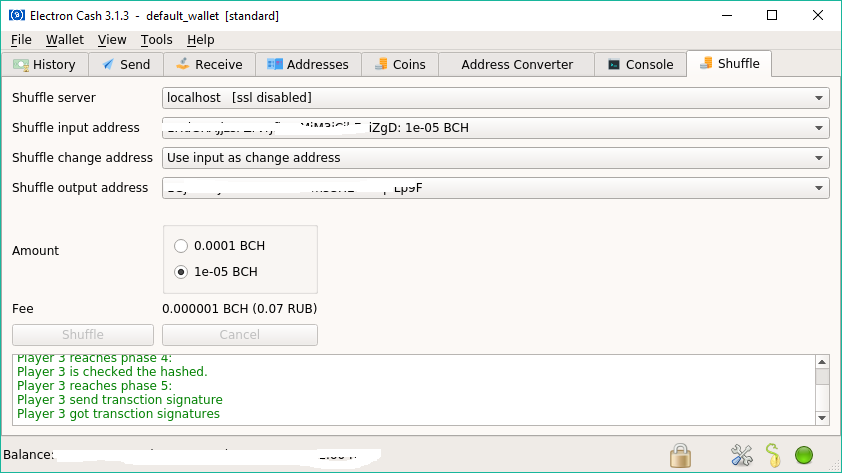
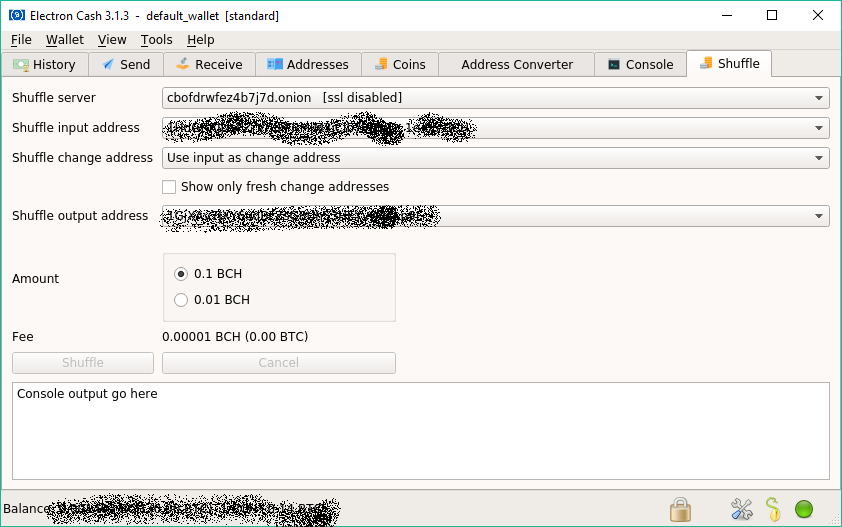
add chages checkbox

diff --git a/shuffle/coin_shuffle.py b/shuffle/coin_shuffle.py
@@ -41,12 +41,10 @@ class Round(object):
         else:
             raise TypeError('Players should be stored in dict object')
         # My verification public key, which is also my identity.
-        # self.__vk = sk.get_public_key(True) # True here means that compression is on
         self.__vk = pubkey
         # decryption key
         if self.__N == len(set(players.values())):
             if self.__vk in players.values():
-                # self.__me = { v : k for k, v in players.iteritems()}[self.__vk]
                 self.__me = { players[player] : player for player in players}[self.__vk]
 
             else:
@@ -78,7 +76,7 @@ class Round(object):
         try:
             val = self.__inchan.recv()
             if val is None:
-                return
+                return None
             else:
                 self.__messages.packets.ParseFromString(val)
         except Exception:
@@ -90,8 +88,7 @@ class Round(object):
             if not self.__coin.verify_signature(sig, msg, player):
                 self.__messages.clear_packets()
                 self.__messages.blame_invalid_signature(self.__players[player])
-                self.__messages.form_last_packet(self.__sk, self.__session, self.__me, self.__vk, None,self.__phase)
-                self.__outchan.send(self.__messages.packets.SerializeToString())
+                self.send_message()
                 self.__logchan.send('Blame: player ' + player + ' message with wrong signature!')
                 raise BlameException('Player ' + player + ' message with wrong signature!')
         # blames = self.__messages.get_blame()
@@ -103,6 +100,11 @@ class Round(object):
         #     self.__logchan.send("Blame on you!")
         if self.__debug:
             self.__logchan.send("Player " + str(self.__me)+"\n"+str(self.__inbox))
+        return True
+
+    def send_message(self, destination = None):
+        self.__messages.form_all_packets(self.__sk, self.__session, self.__me, self.__vk, destination, self.__phase)
+        self.__outchan.send(self.__messages.packets.SerializeToString())
 
     def blame_insufficient_funds(self):
         offenders = list()
@@ -117,8 +119,7 @@ class Round(object):
             self.__phase = "Blame"
             for offender in offenders:
                 self.__messages.blame_insufficient_funds(offender)
-                self.__messages.form_last_packet(self.__sk, self.__session, self.__me, self.__vk, None,self.__phase)
-                self.__outchan.send(self.__messages.packets.SerializeToString())
+                self.send_message()
                 #log the Exception
                 self.__logchan.send('Blame: insufficient funds of player ' + str(list(self.__players.keys())[list(self.__players.values()).index(offender)]))
             raise BlameException('Insufficient funds')
@@ -129,8 +130,7 @@ class Round(object):
         # Broadcast the public key and store it in the set with everyone else's.
         self.__messages.clear_packets()
         self.__messages.add_encryption_key(self.__crypto.export_public_key(), self.__change)
-        self.__messages.form_last_packet(self.__sk, self.__session, self.__me, self.__vk, None , self.__phase)
-        self.__outchan.send(self.__messages.packets.SerializeToString())
+        self.send_message()
 
     # In phase 1, everybody announces their new encryption keys to one another. They also
     # optionally send change addresses to one another. This function reads that information
@@ -146,10 +146,11 @@ class Round(object):
         return encrypted
 
     def process_inbox(self):
+        phase = self.__messages.phases[self.__phase]
         # Announcement
         if self.__phase is 'Announcement':
-            if len(self.__inbox[self.__messages.phases[self.__phase]]) == self.__N:
-                messages = self.__inbox[self.__messages.phases[self.__phase]]
+            if len(self.__inbox[phase]) == self.__N:
+                messages = self.__inbox[phase]
                 for message in messages:
                     self.__messages.packets.ParseFromString(messages[message])
                     from_key = self.__messages.get_from_key()
@@ -159,21 +160,15 @@ class Round(object):
                     self.__logchan.send('Player '+ str(self.__me) + ' recieved all keys for test.')
                     self.__phase = 'Shuffling'
                     self.__logchan.send("Player " + str( self.__me) + " reaches phase 2.")
-                    #
                     self.__messages.clear_packets()
-                    #
                     if self.__me == 1:
                         self.__messages.add_str(self.encrypt_new_address())
-                        # form packet and...
-                        self.__messages.form_all_packets(self.__sk, self.__session, self.__me, self.__vk, self.__players[self.__me + 1],self.__phase)
-                        # ... send it to the next player
-                        self.__outchan.send(self.__messages.packets.SerializeToString())
+                        self.send_message(destination = self.__players[self.__me + 1])
                         self.__logchan.send("Player " + str(self.__me) + " encrypt new address")
                         self.__phase = 'BroadcastOutput'
         # Shuffling
         elif self.__phase is 'Shuffling':
             if self.__me == self.__N:
-                phase = self.__messages.phases[self.__phase]
                 sender = self.__players[self.__N - 1]
                 if self.__inbox[phase].get(sender):
                     self.__messages.packets.ParseFromString(self.__inbox[phase][sender])
@@ -185,15 +180,11 @@ class Round(object):
                     self.__messages.shuffle_packets()
                     # form packet ...
                     self.__phase = 'BroadcastOutput'
-                    self.__messages.form_all_packets(self.__sk, self.__session, self.__me, self.__vk, None, self.__phase)
-                    # and send it to everyone
-                    self.__outchan.send(self.__messages.packets.SerializeToString())
+                    self.send_message()
                     self.__logchan.send("Player " + str(self.__me) + " encrypt new address")
             else:
-                phase = self.__messages.phases[self.__phase]
                 sender = self.__players[self.__me - 1]
                 if self.__inbox[phase].get(sender):
-                    # self.__messages.clear_packets()
                     self.__messages.packets.ParseFromString(self.__inbox[phase][sender])
                     for packet in self.__messages.packets.packet:
                         packet.packet.message.str = self.__crypto.decrypt(packet.packet.message.str)
@@ -201,15 +192,11 @@ class Round(object):
                     self.__messages.add_str(self.encrypt_new_address())
                     # shuffle the packets
                     self.__messages.shuffle_packets()
-                    # form packet and...
-                    self.__messages.form_all_packets(self.__sk, self.__session, self.__me, self.__vk, self.__players[self.__me + 1], self.__phase)
-                    # and send it to next player
-                    self.__outchan.send(self.__messages.packets.SerializeToString())
+                    self.send_message(destination = self.__players[self.__me + 1])
                     self.__logchan.send("Player " + str(self.__me) + " encrypt new address")
                     self.__phase = 'BroadcastOutput'
         # BroadcastOutput
         elif self.__phase is 'BroadcastOutput':
-            phase = self.__messages.phases[self.__phase]
             sender = self.__players[self.__N]
             if self.__inbox[phase].get(sender):
                 # extract addresses from packets
@@ -223,8 +210,7 @@ class Round(object):
                 else:
                     self.__messages.clear_packets()
                     self.__messages.blame_missing_output(self.__vk)
-                    self.__messages.form_last_packet(self.__sk, self.__session, self.__me, self.__vk, None,self.__phase)
-                    self.__outchan.send(self.__messages.packets.SerializeToString())
+                    self.send_message()
                     self.__logchan.send("Blame: player " + str(self.__me) + "  not found itsefs new address")
                     raise BlameException("Blame: player " + str(self.__me) + "  not found itsefs new address")
                 self.__phase = 'EquivocationCheck'
@@ -236,13 +222,9 @@ class Round(object):
                 self.__messages.clear_packets()
                 # add new hash
                 self.__messages.add_hash(computed_hash)
-                # sign a packets for broadcasting
-                self.__messages.form_last_packet(self.__sk, self.__session, self.__me, self.__vk, None, self.__phase)
-                # broadcast the message
-                self.__outchan.send(self.__messages.packets.SerializeToString())
+                self.send_message()
         elif self.__phase is 'EquivocationCheck':
             computed_hash =self.__crypto.hash( str(self.__new_addresses) + str([self.__encryption_keys[self.__players[i]] for i in range(1, self.__N + 1) ]))
-            phase  = self.__messages.phases[self.__phase]
             if len(self.__inbox[phase]) == self.__N:
                 messages = self.__inbox[phase]
                 for player in messages:
@@ -251,26 +233,20 @@ class Round(object):
                     if hash_value != computed_hash:
                         self.__messages.clear_packets()
                         self.__messages.blame_equivocation_failure(self.__players[player])
-                        self.__messages.form_last_packet(self.__sk, self.__session, self.__me, self.__vk, None,self.__phase)
-                        self.__outchan.send(self.__messages.packets.SerializeToString())
+                        self.send_message()
                         self.__logchan.send('Blame: wrong hash computed by player' + str(player))
                         raise BlameException('Wrong hash computed by player ' + str(player))
                 self.__logchan.send('Player ' + str(self.__me) + ' is checked the hashed.')
                 self.__phase = 'VerificationAndSubmission'
                 self.__logchan.send("Player "+ str(self.__me) + " reaches phase 5: ")
                 inputs = {self.__players[player]:self.__coin.address(self.__players[player])  for player in self.__players}
-                # self.__logchan.send(str(inputs))
-                # (amount, fee, inputs, outputs, changes):
                 self.transaction = self.__coin.make_unsigned_transaction(self.__amount, self.__fee, inputs, self.__new_addresses, self.__change_addresses)
                 signature = self.__coin.get_transaction_signature(self.transaction, self.__sk, self.__vk)
-                # signature = self.__sk.sign_message(transaction,True)
                 self.__messages.clear_packets()
                 self.__messages.add_signature(signature)
-                self.__messages.form_last_packet(self.__sk, self.__session, self.__me, self.__vk, None, self.__phase)
-                self.__outchan.send(self.__messages.packets.SerializeToString())
+                self.send_message()
                 self.__logchan.send("Player " + str(self.__me) + " send transction signature")
         elif self.__phase is 'VerificationAndSubmission':
-                phase = self.__messages.phases[self.__phase]
                 if len(self.__inbox[phase]) == self.__N:
                     self.signatures = {}
                     self.__logchan.send("Player " + str(self.__me) + " got transction signatures")
@@ -282,8 +258,7 @@ class Round(object):
                         if not check:
                             self.__messages.clear_packets()
                             self.__messages.blame_wrong_transaction_signature(self.__players[player])
-                            self.__messages.form_last_packet(self.__sk, self.__session, self.__me, self.__vk, None,self.__phase)
-                            self.__outchan.send(self.__messages.packets.SerializeToString())
+                            self.send_message()
                             self.__logchan.send('Blame: wrong transaction signature from player ' + str(player))
                             raise BlameException('Wrong tx signature from player ' + str(player))
 
@@ -314,5 +289,5 @@ class Round(object):
         self.__logchan.send("Player " + str( self.__me) + " is about to read announcements.")
 
         while not self.done:
-            self.inchan_to_inbox()
-            self.process_inbox()
+            if self.inchan_to_inbox():
+                self.process_inbox()

diff --git a/shuffle/qt.py b/shuffle/qt.py
@@ -152,6 +152,7 @@ class Plugin(BasePlugin):
             self.enable_coinshuffle_settings()
             self.coinshuffle_cancel_button.setEnabled(False)
             self.coinshuffle_inputs.update(self.window.wallet)
+            self.coinshuffle_outputs.update(self.window.wallet)
         else:
             header = message[:6]
             if header == 'Player':
@@ -165,8 +166,7 @@ class Plugin(BasePlugin):
             self.coinshuffle_text_output.setTextColor(QColor('black'))
 
     def start_coinshuffle_protocol(self):
-        print('protocol started')
-        # from electroncash_plugins.coinshuffle.client import protocolThread
+        # print('protocol started')
         from .client import protocolThread
         from electroncash.bitcoin import (regenerate_key, deserialize_privkey)
         from .shuffle import ConsoleLogger
@@ -246,22 +246,22 @@ class Plugin(BasePlugin):
     def create_shuffle_tab(self):
         self.coinshuffle_fee_constant = 1000
         # This is for debug
-        # self.coinshuffle_fee_constant = 100
+        # self.coinshuffle_fee_constant = 900
 
         from .shuffle import (InputAdressWidget, ChangeAdressWidget, OutputAdressWidget,
                             ConsoleOutput, AmountSelect, ServersList)
 
         self.coinshuffle_amounts = [1e7, 1e6]
         # Use this in test mode
-        # self.coinshuffle_amounts = [1e4, 1e3]
+        # self.coinshuffle_amounts = [1e4, 1e3, 3e3]
         self.shuffle_grid = grid = QGridLayout()
         grid.setSpacing(8)
         grid.setColumnStretch(3, 1)
 
         self.coinshuffle_servers = ServersList()
-        # self.coinshuffle_use_ssl = QCheckBox()
         self.coinshuffle_inputs = InputAdressWidget(decimal_point = self.window.get_decimal_point)
         self.coinshuffle_changes = ChangeAdressWidget()
+        self.coinshuffle_fresh_changes = QCheckBox(_('Show only fresh change addresses'))
         self.coinshuffle_outputs = OutputAdressWidget()
         self.coinshuffle_amount_radio = AmountSelect(self.coinshuffle_amounts, decimal_point = self.window.get_decimal_point)
         self.coinshuffle_fee = QLabel(_(self.window.format_amount_and_units(self.coinshuffle_fee_constant)))
@@ -269,6 +269,7 @@ class Plugin(BasePlugin):
 
         self.coinshuffle_inputs.currentIndexChanged.connect(self.check_sufficient_ammount)
         self.coinshuffle_amount_radio.button_group.buttonClicked.connect(self.check_sufficient_ammount)
+        self.coinshuffle_fresh_changes.stateChanged.connect(lambda: self.coinshuffle_changes.update(self.window.wallet, fresh_only = self.coinshuffle_fresh_changes.isChecked()))
 
         self.coinshuffle_start_button = EnterButton(_("Shuffle"),lambda :self.start_coinshuffle_protocol())
         self.coinshuffle_cancel_button = EnterButton(_("Cancel"),lambda :self.cancel_coinshuffle_protocol())
@@ -277,15 +278,15 @@ class Plugin(BasePlugin):
 
         grid.addWidget(QLabel(_('Shuffle server')), 1, 0)
         # grid.addWidget(QLabel(_('Use SSL')), 2, 0)
-        grid.addWidget(QLabel(_('Shuffle input address')), 3, 0)
-        grid.addWidget(QLabel(_('Shuffle change address')), 4, 0)
+        grid.addWidget(QLabel(_('Shuffle input address')), 2, 0)
+        grid.addWidget(QLabel(_('Shuffle change address')), 3, 0)
         grid.addWidget(QLabel(_('Shuffle output address')), 5, 0)
         grid.addWidget(QLabel(_('Amount')), 6, 0)
         grid.addWidget(QLabel(_('Fee')), 7, 0)
         grid.addWidget(self.coinshuffle_servers, 1, 1,1,-1)
-        # grid.addWidget(self.coinshuffle_use_ssl, 2, 1)
-        grid.addWidget(self.coinshuffle_inputs,3,1,1,-1)
-        grid.addWidget(self.coinshuffle_changes,4,1,1,-1)
+        grid.addWidget(self.coinshuffle_fresh_changes, 4, 1)
+        grid.addWidget(self.coinshuffle_inputs,2,1,1,-1)
+        grid.addWidget(self.coinshuffle_changes,3,1,1,-1)
         grid.addWidget(self.coinshuffle_outputs,5,1,1,-1)
         grid.addWidget(self.coinshuffle_amount_radio,6,1)
         grid.addWidget(self.coinshuffle_fee ,7, 1)

diff --git a/shuffle/shuffle.py b/shuffle/shuffle.py
@@ -103,7 +103,7 @@ class InputAdressWidget(QComboBox):
         return self.inputsArray[self.currentIndex()]['address']
 
     def get_input_address_as_string(self, fmt = Address.FMT_LEGACY):
-        return self.inputsArray[self.currentIndex()]['address'].to_string(fmt)    
+        return self.inputsArray[self.currentIndex()]['address'].to_string(fmt)
 
     def get_input_value(self):
         i = self.currentIndex()
@@ -129,6 +129,16 @@ class OutputAdressWidget(QComboBox):
     def get_output_address(self, fmt = Address.FMT_LEGACY):
         return self.outputsArray[self.currentIndex()].to_string(fmt)
 
+    def update(self, wallet):
+        current_output = self.get_output_address()
+        currentindex = self.currentIndex()
+        self.clear_addresses()
+        self.setItems(wallet)
+        if current_output in self.outputsArray:
+            self.setCurrentIndex(self.outputsArray.index(current_output))
+        else:
+            self.setCurrentIndex(0)
+
 class ConsoleLogger(QObject):
     logUpdater  = pyqtSignal(str)
 
@@ -153,6 +163,17 @@ class ChangeAdressWidget(QComboBox):
 
     def setItems(self, wallet):
         self.ChangesArray = wallet.get_change_addresses()
+        self.addItem('Use input as change address')
+        for addr in self.ChangesArray:
+            self.addItem(addr.to_string(Address.FMT_LEGACY))
+
+    def update(self, wallet, fresh_only = False):
+        self.clear()
+        changes = wallet.get_change_addresses()
+        if not fresh_only:
+            self.ChangesArray = changes
+        else:
+            self.ChangesArray = [change for change in changes if len(wallet.get_address_history(change)) == 0 ]
         self.addItem('Use input as change address')
         for addr in self.ChangesArray:
             self.addItem(addr.to_string(Address.FMT_LEGACY))

diff --git a/shuffle/messages.py b/shuffle/messages.py
@@ -29,19 +29,6 @@ class Messages(object):
         packet.packet.from_key.key = vk
         packet.packet.registration.amount = amount
 
-    def form_last_packet(self, eck, session, number, vk_from , vk_to, phase):
-        packet = self.packets.packet[-1]
-        packet.packet.session = session
-        packet.packet.number = int(number)
-        packet.packet.phase = self.phases.get(phase)
-        packet.packet.from_key.key = vk_from
-        if vk_to:
-            packet.packet.to_key.key = vk_to
-        else:
-            packet.packet.ClearField('to_key')
-        msg = packet.packet.SerializeToString()
-        packet.signature.signature = eck.sign_message(msg,True)
-
     def form_all_packets(self, eck, session, number, vk_from, vk_to, phase):
         for packet in self.packets.packet:
             packet.packet.session = session

diff --git a/README.md b/README.md
@@ -45,7 +45,7 @@ Replace this text with
 
 3. Use `Shuffle input address` to choose coin which you want to shuffle. This list of coins is formed from  the UTXO's of your wallet.
 
-4. From `Shuffle change address` choose the address for your change. You can leave this as the default setting if you want to use input address as change address.
+4. From `Shuffle change address` choose the address for your change. You can leave this as the default setting if you want to use input address as change address. If you wish to use change addresses which not been used before check the `use only fresh change aderesses` checkbox.
 
 5. From `Shuffle output address` choose the address for the shuffled output.
 
